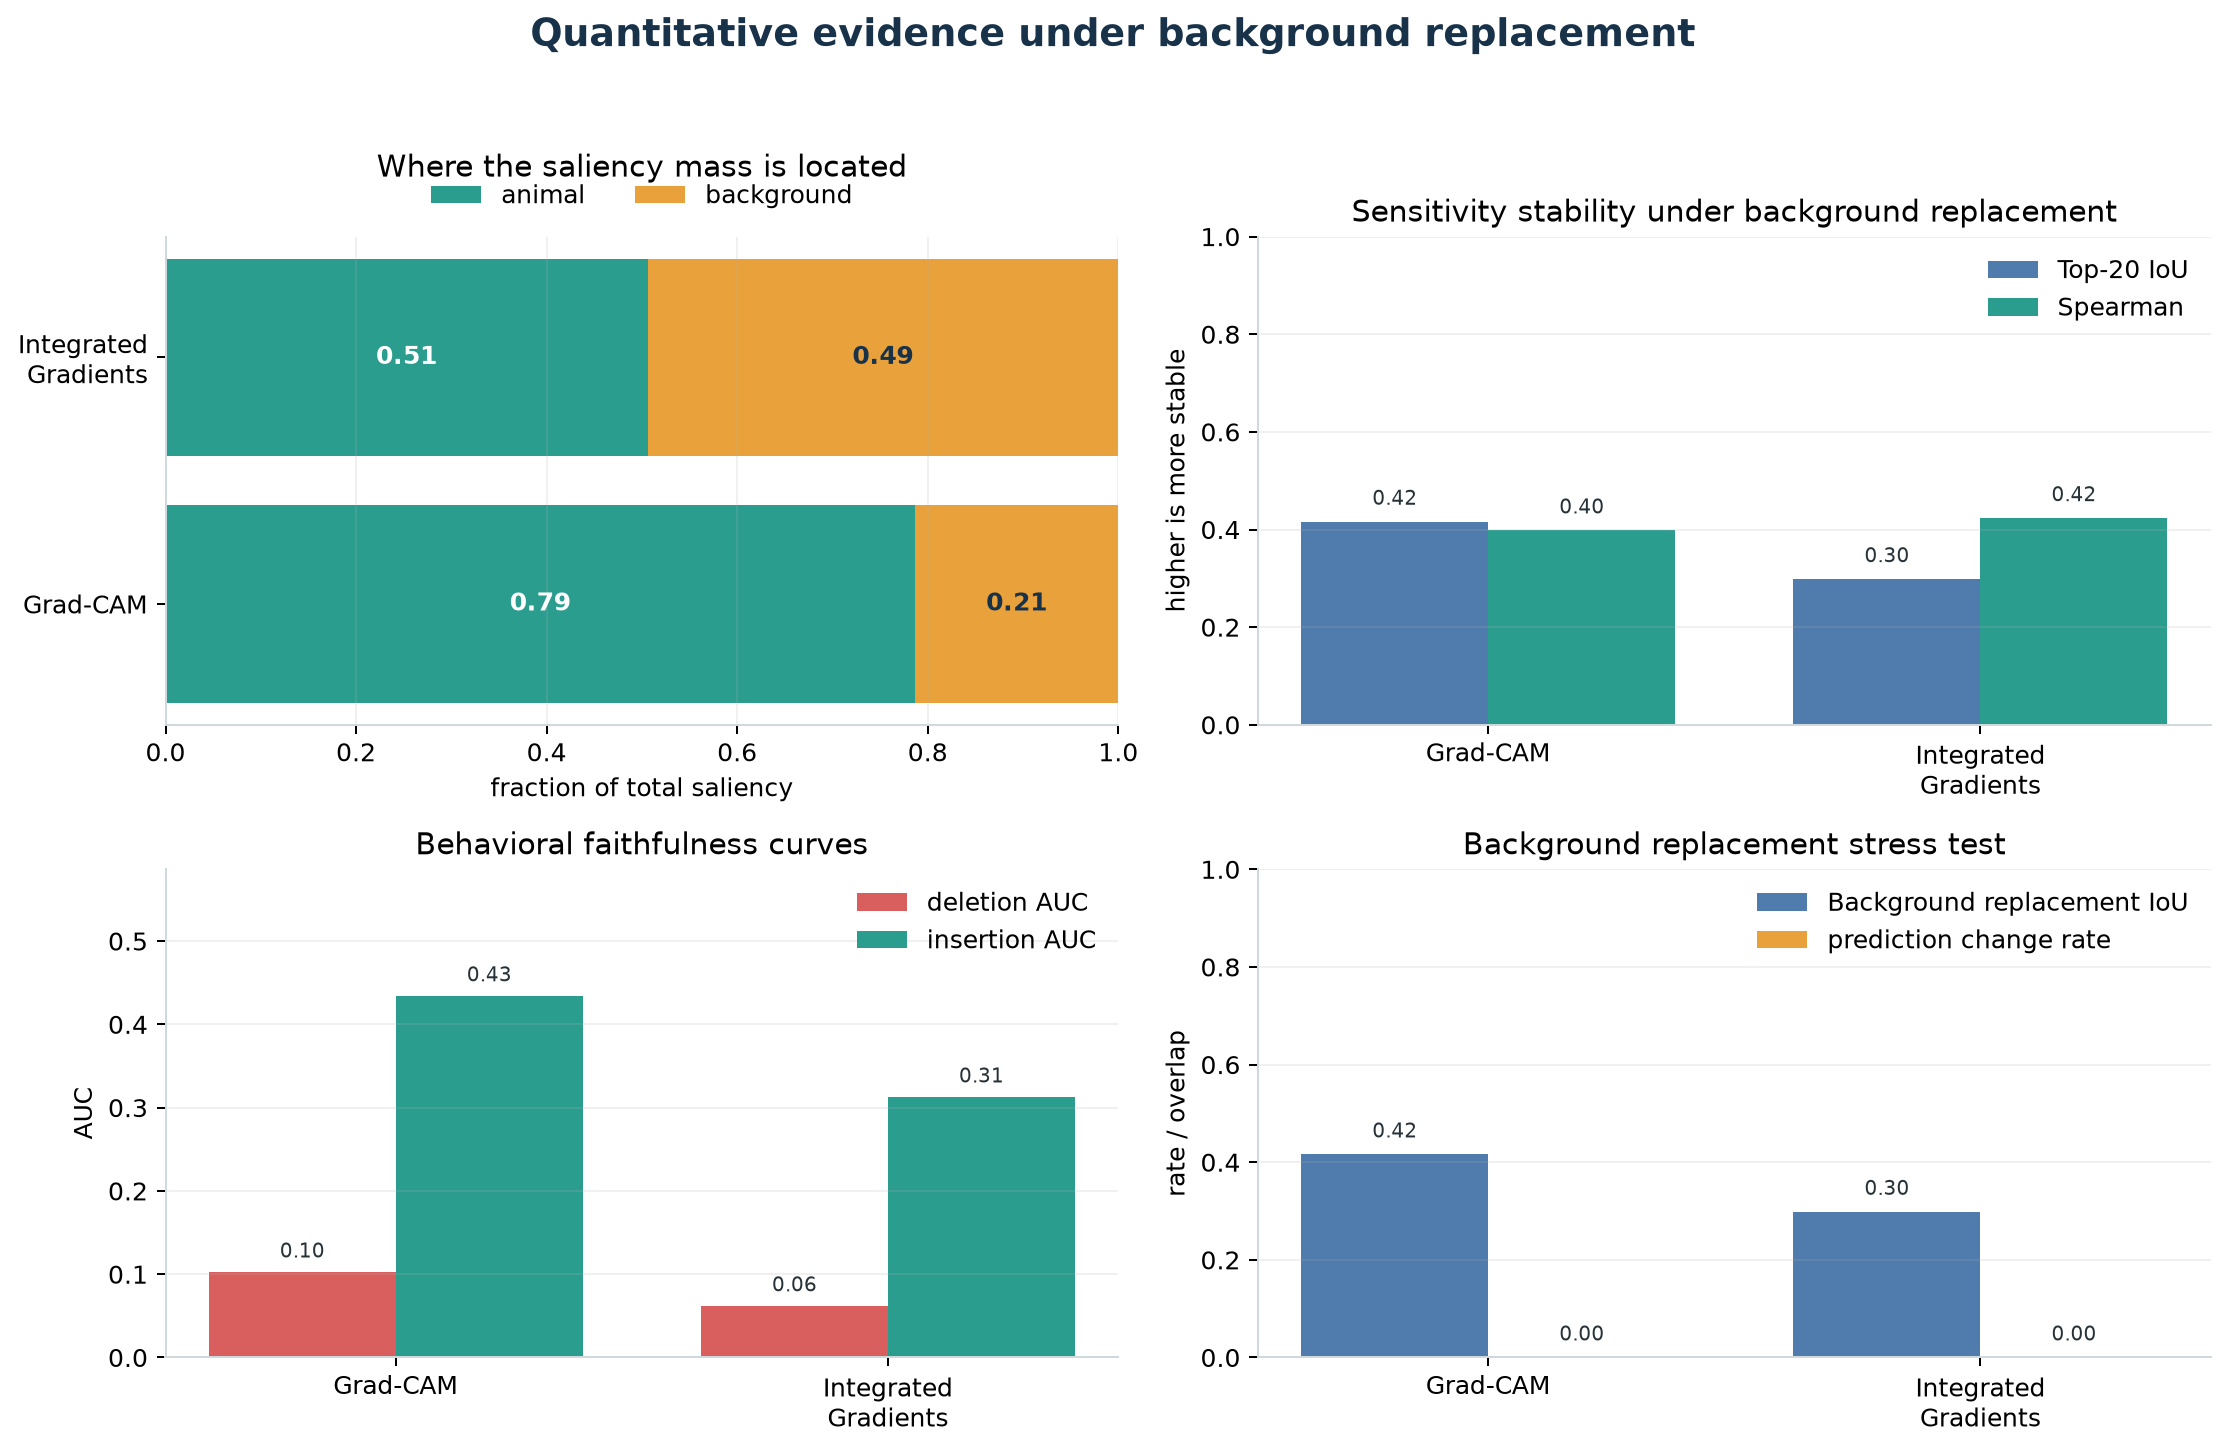
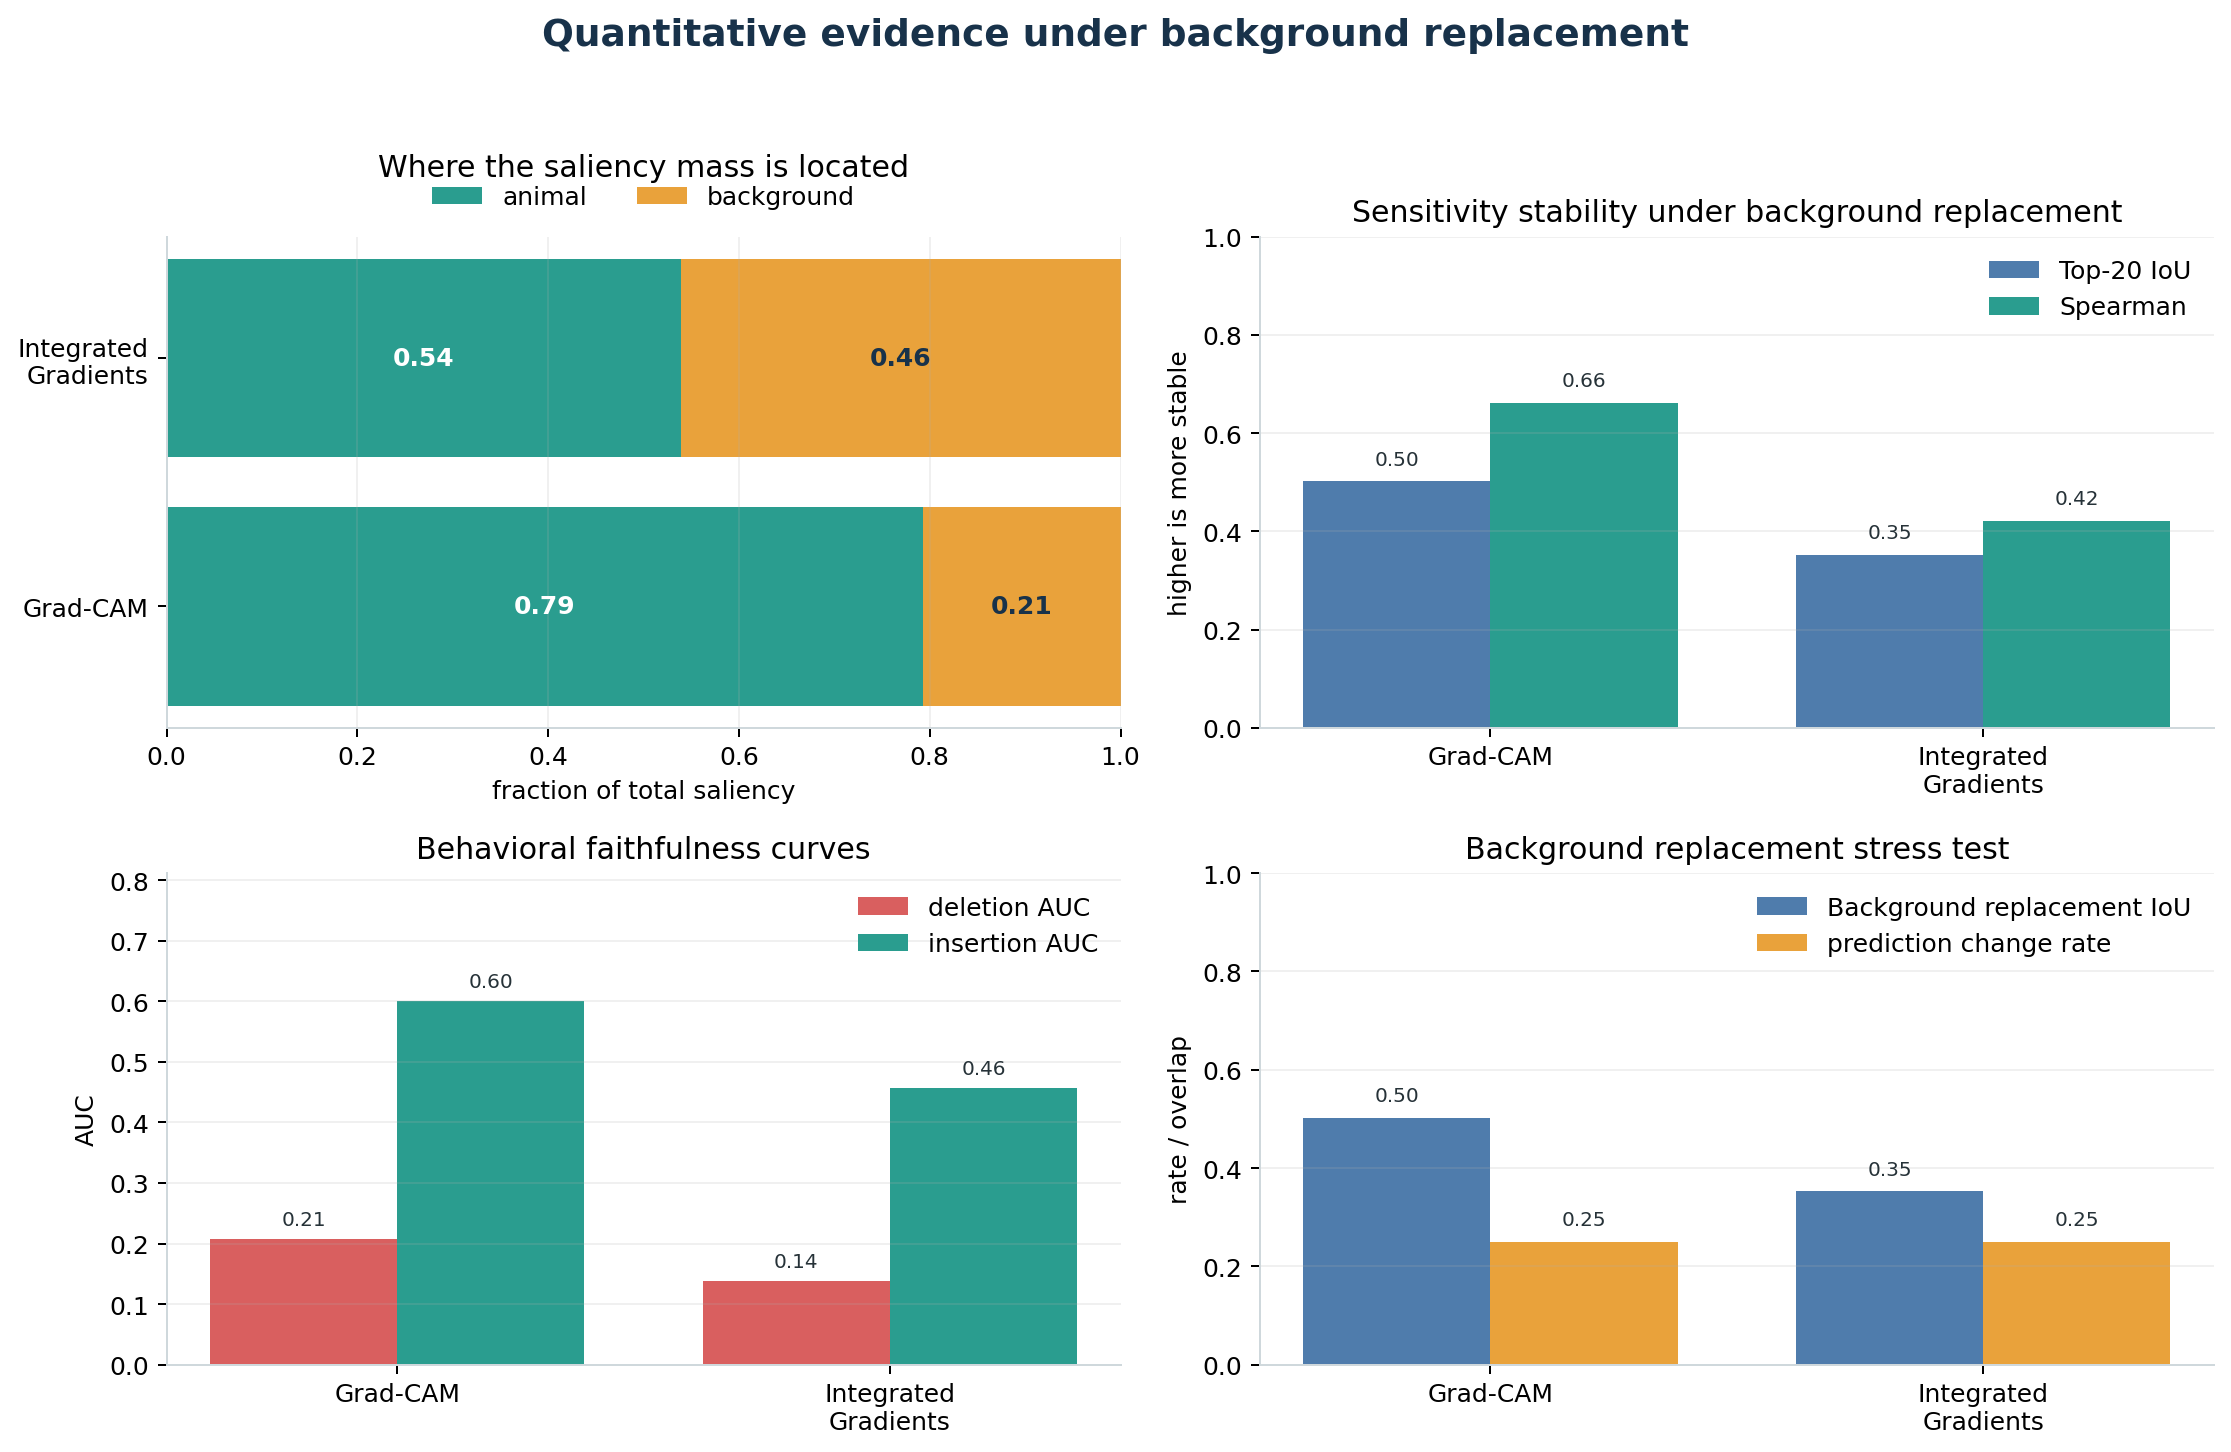
feat(blog): adjusted plot

diff --git a/docs/intuitive_explainability.html b/docs/intuitive_explainability.html
@@ -2497,9 +2497,9 @@
             </header>
             <figure>
               <img src="assets/xai-report/stress-metric-background-replacement.png"
-                alt="Figure-09-style metric dashboard for the elephant background-replacement stress." loading="lazy"
+                alt="Figure-09-style metric dashboard for the batch-level background-replacement stress." loading="lazy"
                 decoding="async">
-              <figcaption><strong>Figure 09c</strong> - Figure-09-style dashboard for the elephant background-replacement
+              <figcaption><strong>Figure 09c</strong> - Figure-09-style dashboard for the batch-level background-replacement
                 intervention.</figcaption>
             </figure>
             <div class="stress-card-grid">
@@ -2530,9 +2530,9 @@
         <figure class="stress-summary-html" aria-labelledby="background-stress-summary-title">
           <div class="stress-summary-header">
             <h3 id="background-stress-summary-title">Background stress test summary</h3>
-            <p>Values are computed from the elephant-only stress outputs. Stability uses mean top-20% saliency IoU and
-              mean Spearman correlation between the original and perturbed saliency maps; prediction change rate and
-              confidence drop are measured on the fixed elephant audit case.</p>
+            <p>Values are computed from the inspected stress outputs. Stability uses mean top-20% saliency IoU and
+              mean Spearman correlation between the original and perturbed saliency maps; prediction change rate is
+              measured as the fraction of inspected examples whose top class changes.</p>
           </div>
           <div class="stress-summary-cards" aria-label="Background perturbation summary cards">
             <article class="stress-summary-card">
@@ -2547,7 +2547,7 @@
                 <dt>Spearman, Grad-CAM vs IG</dt>
                 <dd>0.60 vs 0.50</dd>
               </dl>
-              <p>The elephant prediction stayed stable; Grad-CAM retained slightly stronger spatial stability.</p>
+              <p>Gaussian noise did not change the predicted class, but it strongly reduced confidence and made the explanations less stable.</p>
             </article>
             <article class="stress-summary-card stress-summary-card--low">
               <h4>Colour shift</h4>
@@ -2561,21 +2561,21 @@
                 <dt>Spearman, Grad-CAM vs IG</dt>
                 <dd>0.69 vs 0.52</dd>
               </dl>
-              <p>The elephant decision was stable, while Integrated Gradients moved more than Grad-CAM.</p>
+              <p>Colour shift did not change the predicted class and had a smaller confidence effect, but Integrated Gradients was less spatially stable than Grad-CAM.</p>
             </article>
             <article class="stress-summary-card stress-summary-card--critical">
               <h4>Background replacement</h4>
               <dl>
                 <dt>Prediction change rate</dt>
-                <dd>0.00</dd>
+                <dd>0.25</dd>
                 <dt>Mean confidence drop</dt>
-                <dd>0.54</dd>
+                <dd>0.39</dd>
                 <dt>Top-20 IoU, Grad-CAM vs IG</dt>
-                <dd>0.42 vs 0.30</dd>
+                <dd>0.50 vs 0.35</dd>
                 <dt>Spearman, Grad-CAM vs IG</dt>
-                <dd>0.40 vs 0.42</dd>
+                <dd>0.66 vs 0.42</dd>
               </dl>
-              <p>This was the strongest confidence drop for the elephant case, even though the top prediction stayed elephant.</p>
+              <p>Background replacement changed 25% of predictions and reduced confidence, making it the clearest sign that background context can affect the decision.</p>
             </article>
           </div>
           <table class="comparison stress-summary-table">